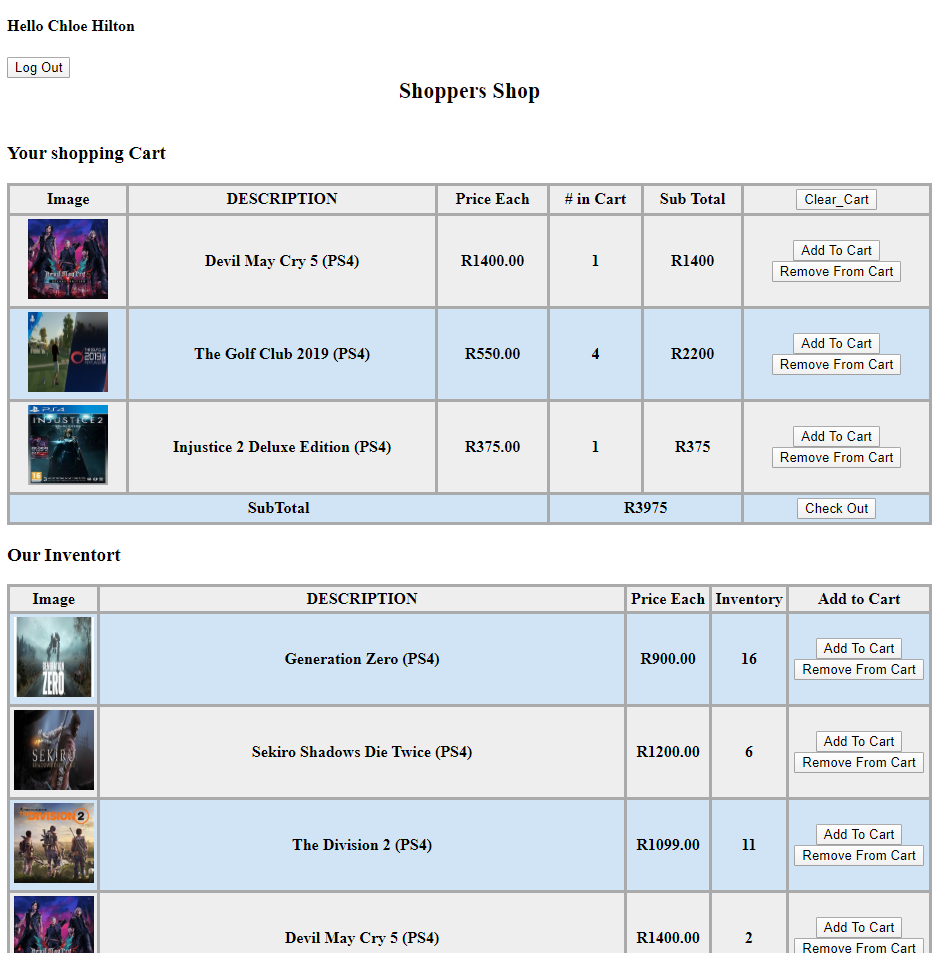
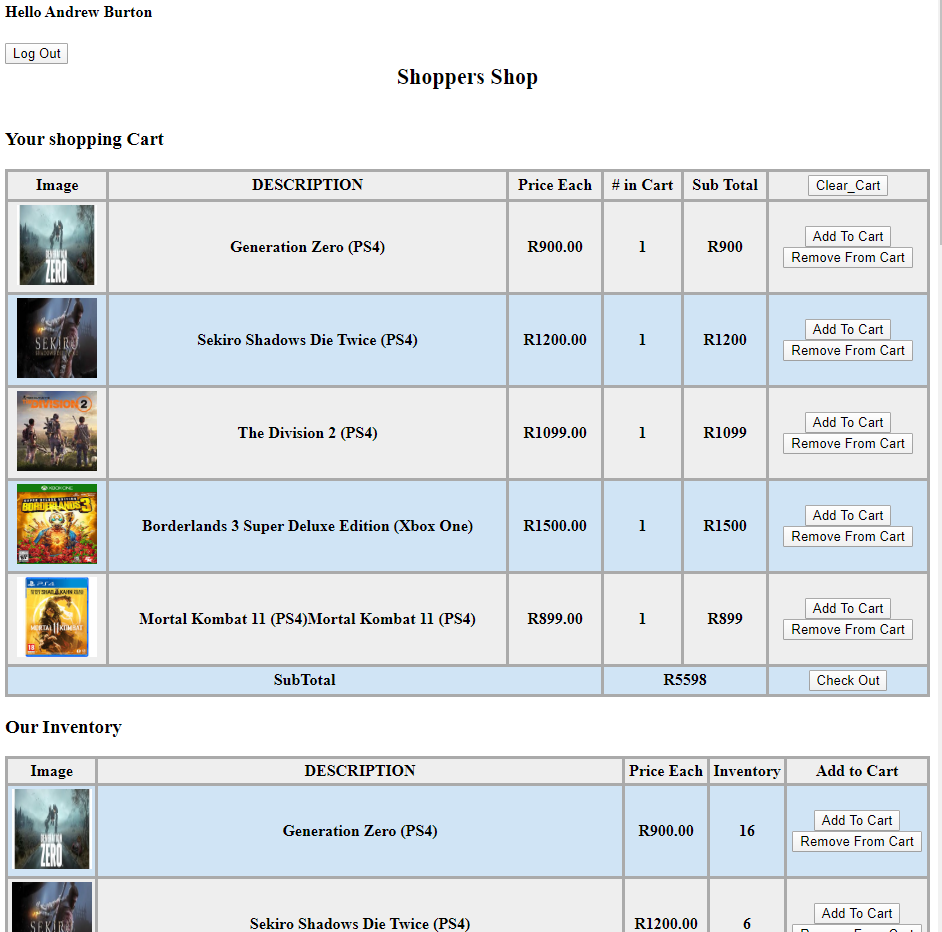
Corrected a typo

diff --git a/myShop.php b/myShop.php
@@ -221,7 +221,7 @@ echo "<th>Add to Cart</th>" ;
 echo  "</tr>";
 echo "<form method=post>";
 //-----------------------------------------------------------------------------
-echo"<h3>Our Inventort</h3>";
+echo"<h3>Our Inventory</h3>";
 //Populate Table
 //-----------------------------------------------------------------------------
 $shoppingCart = $Cart->getProductList(); 
